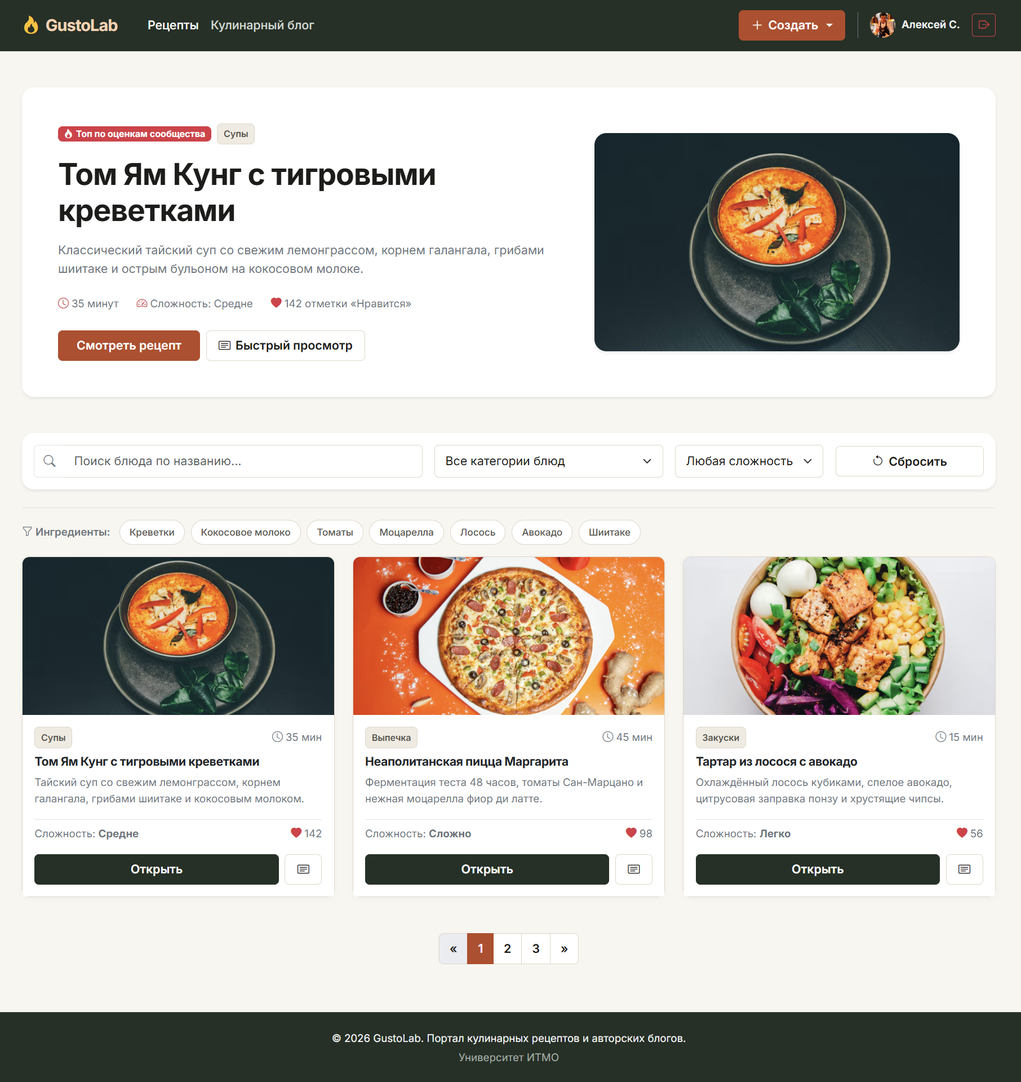
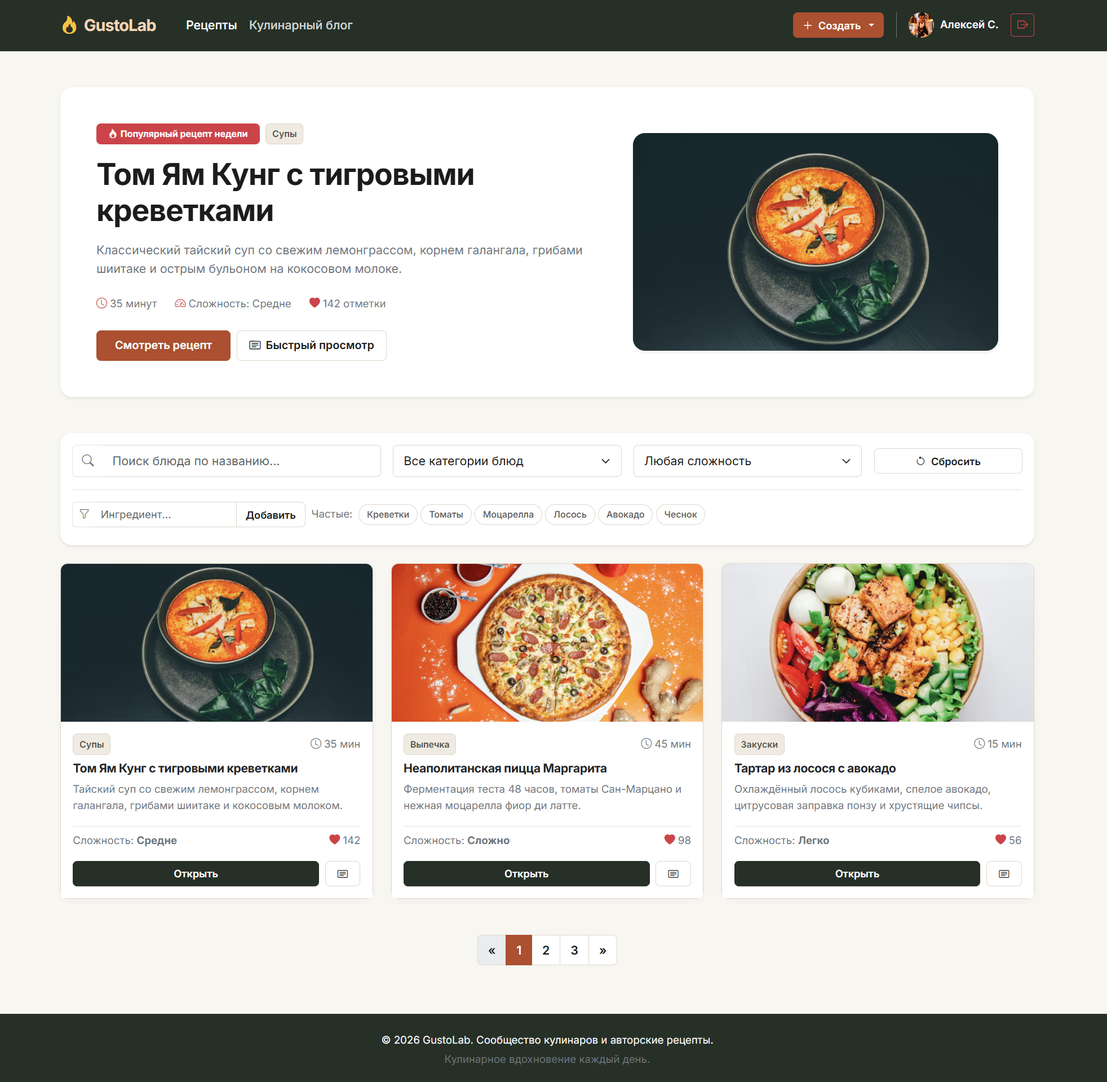
docs(lab1): update report with project documentation and figures

diff --git a/labs/K3440/Христофоров Владислав/lab1/README.md b/labs/K3440/Христофоров Владислав/lab1/README.md
@@ -8,49 +8,292 @@
 
 **Проверил:** Добряков Д. И.
 
-## Задача
+## 1. Задача
 
-Спроектировать и разработать многостраничный адаптивный веб-интерфейс сервиса по варианту № 5 («Сервис для обмена рецептами и кулинарных блогов») средствами HTML, CSS, Bootstrap и JavaScript.
+Целью работы является освоение и практическое закрепление навыков проектирования семантической структуры веб-приложений с использованием спецификации HTML5, построения адаптивных пользовательских интерфейсов средствами CSS3 и библиотеки Bootstrap 5, а также программирования модульной клиентской интерактивности на нативном языке JavaScript без применения сторонних фреймворков и сборщиков.
 
-## Ход работы
+В соответствии с вариантом 5 («Сервис для обмена рецептами и кулинарных блогов») поставлены следующие инженерные задачи:
 
-### Проектирование семантической структуры и многостраничной компоновки
+1. Спроектировать архитектуру и сверстать многостраничный пользовательский интерфейс сервиса, включающий как обязательные базовые экраны (витрина каталога рецептов, детальный просмотр рецепта, личный кабинет пользователя, формы авторизации и регистрации), так и вспомогательные экраны жизненного цикла контента (конструктор создания и форма редактирования рецепта, лента и детальный просмотр кулинарного блога, формы создания и редактирования статей, страница публичного портфолио автора).
+2. Реализовать адаптивную верстку с использованием 12-колоночной сетки и компонентов библиотеки Bootstrap 5, обеспечивающую устойчивое отображение на смартфонах, планшетах и широкоформатных мониторах.
+3. Разработать функционал поиска с одновременной многофакторной фильтрацией каталога по четырем критериям: названию блюда, категории (типу блюда), уровню кулинарной сложности и динамическому набору ингредиентов.
+4. Интегрировать диалоговые модальные окна для реализации вспомогательных сценариев: быстрого просмотра характеристик блюда, редактирования учетных данных профиля и модальных окон подтверждения деструктивных операций (удаление рецепта, статьи, комментария, аккаунта).
+5. Разработать модульную клиентскую логику на нативном JavaScript (манипуляции с DOM-деревом, пропорциональный калькулятор порций с правильным склонением числительных, интерактивный чек-лист подготовки продуктов, инлайн-редактирование комментариев, предпросмотр медиафайлов, синхронизация реакций и счетчиков).
 
-На первом этапе работы разработана семантическая структура всех экранов веб-приложения на основе спецификации HTML5. Для построения каркаса страниц применены специализированные структурные теги: `header` для шапок, `nav` для навигационных ориентиров и хлебных крошек, `main` для основного содержимого, `section` для логических зон страницы, `article` для самостоятельных карточек рецептов и статей блога, а также `footer` для подвала сайта.
+## 2. Документация архитектуры и спецификация экранов сервиса
 
-Навигационная панель стандартизирована для всех страниц сервиса и имеет два взаимоисключающих состояния: гостевое (для страниц входа и регистрации с быстрыми ссылками авторизации) и авторизованное (с постоянным логотипом бренда, ссылками на каталог и блог, кнопкой быстрого создания контента и компактным профилем текущего шеф-повара). В формах обеспечена строгая связка меток `label` с полями ввода, установлены нативные ограничения типов данных (`email`, `number`, `url`, `file`) и атрибуты обязательности заполнения `required`.
+### 2.1. Структура файлов и каталогов проекта
 
-![Каталог рецептов GustoLab](img/catalog.png)
+Файловая структура проекта организована по модульному принципу без внешних систем сборки, что обеспечивает автономный запуск веб-приложения любым статическим сервером:
 
-_Рисунок 1 — Главная страница каталога с промо-карточкой топ-блюда и фильтрацией._
+```
+lab1/
+├── index.html               # Витрина каталога рецептов с фильтрацией
+├── recipe.html              # Детальный просмотр рецепта и готовка
+├── create-recipe.html       # Конструктор создания нового рецепта
+├── edit-recipe.html         # Форма редактирования существующего рецепта
+├── blog.html                # Лента статей и гастрономических заметок
+├── blog-post.html           # Детальный просмотр статьи блога с обсуждением
+├── create-blog-post.html    # Форма публикации статьи в блог
+├── edit-blog-post.html      # Форма редактирования статьи
+├── author.html              # Публичный профиль шеф-повара (портфолио)
+├── profile.html             # Личный кабинет текущего пользователя
+├── login.html               # Экран входа в систему (авторизация)
+├── register.html            # Экран регистрации нового кулинара
+├── css/
+│   └── style.css            # Дизайн-система, CSS-переменные, кастомные компоненты
+├── js/
+│   └── main.js              # Единый клиентский модуль интерактивности
+└── img/                     # Графические ассеты и иллюстрации для отчета
+    ├── catalog.png
+    ├── recipe.png
+    ├── quick-view.png
+    └── profile.png
+```
 
-### Разработка дизайн-системы, типографики и адаптивной стилизации
+### 2.2. Спецификация и назначение страниц веб-приложения
 
-На втором этапе в файле `css/style.css` сформирована собственная дизайн-система проекта GustoLab. Для централизованного контроля стилей применены пользовательские CSS-переменные: терракотовый оттенок в роли главного акцента, глубокий графитово-оливковый цвет для шапки и подвала, тёплый кремовый фон страниц и контрастные текстовые переменные. В качестве базовой типографики подключён веб-шрифт Inter.
+Интерфейс веб-приложения декомпозирован на 12 функциональных экранов, объединенных в сквозные пользовательские сценарии:
 
-Все элементы интерфейса оформлены через системные классы с префиксом `.gl-`: кнопки основных и контурных действий (`.gl-btn-*`), карточки с мягкой тенью (`.gl-card`), чипсы ингредиентов (`.gl-filter-chip`) и интерактивные переключатели (`.gl-toggle-btn`). Для переключателей реакций (лайков, закладок и подписок) разработаны изолированные классы состояний (`.active-like`, `.active-save`, `.active-sub`), обеспечивающие гарантированное соответствие стандарту доступности WCAG AA по цветовому контрасту (коэффициент не менее $4.8:1$). Для модальных окон подтверждения опасных действий через селекторы повышенной специфичности переопределено наследование цвета заголовков, что обеспечило снежно-белый контрастный текст на красном фоне шапки. Стандартные синие стили табов Bootstrap `.nav-pills` и фокусные кольца элементов ввода переопределены в тона фирменной палитры сервиса. Адаптивность реализована на 12-колоночной сетке Bootstrap 5 с контрольными точками `col-12`, `col-md-6`, `col-lg-4` и медиазапросами.
+#### 1. Каталог кулинарных рецептов (`index.html`)
 
-![Детальный просмотр рецепта](img/recipe.png)
+- **Назначение:** Главный экран сервиса, выполняющий роль интерактивной витрины доступных блюд.
+- **Ключевые блоки и элементы:**
+  - Сквозная навигационная панель (`.gl-navbar`) с логотипом GustoLab, ссылками на разделы, выпадающим меню «+ Создать» и блоком профиля шефа.
+  - Промо-карточка популярного рецепта недели («Том Ям Кунг») с подробными метаданными и кнопками прямого перехода или быстрого просмотра.
+  - Панель фильтрации: текстовое поле поиска по названию, выпадающие списки выбора категории (`dish_types`) и сложности (`difficulty`), а также кнопка сброса параметров.
+  - Модуль теговой фильтрации ингредиентов (Tag Input): поле ввода с автодополнением из справочника `<datalist>`, кнопки быстрых популярных продуктов и динамический контейнер выбранных тегов с кнопками удаления (`×`).
+  - Адаптивная трехколоночная сетка карточек рецептов (`.recipe-item`) с метаданными (время, сложность, лайки), кнопкой перехода к рецепту и триггером модального окна быстрого просмотра.
+  - Блок пустого состояния (`#recipesEmptyState`), автоматически активирующийся при отсутствии совпадений по фильтрам.
+  - Элемент постраничной навигации (пагинация).
+  - Всплывающее модальное окно быстрого просмотра характеристик блюда (`#quickViewModal`).
 
-_Рисунок 2 — Страница рецепта с карточкой автора, калькулятором порций и видеоуроком._
+#### 2. Просмотр рецепта и интерактивная готовка (`recipe.html`)
 
-### Реализация требований варианта и клиентского интерактива на JavaScript
+- **Назначение:** Детальный экран рецепта, ориентированный на процесс приготовления блюда и социальное взаимодействие.
+- **Ключевые блоки и элементы:**
+  - Навигационная цепочка («хлебные крошки») для возврата в каталог.
+  - Заголовочная карточка: категория, время термообработки, сложность, имя автора со ссылкой на его публичный профиль (`author.html`) и интерактивной кнопкой подписки.
+  - Блок социальных реакций: переключаемые кнопки «Нравится» (с инкрементом счетчика) и «В закладки».
+  - Панель управления автора: блок с кнопками перехода к редактированию (`edit-recipe.html`) и вызова модального окна удаления блюда (`#deleteRecipeModal`).
+  - Медиа-секция: фотография готового блюда и адаптивный контейнер плеера видеоинструкции (`ratio ratio-16x9`).
+  - Плавающий сайдбар ингредиентов (`sticky-top`): интерактивный калькулятор изменения количества порций (`[-] / [+]`) с автоматическим пересчетом граммовок и чек-лист продуктов с вычеркиванием подготовленных позиций по клику.
+  - Нумерованный список пошагового приготовления с текстовыми инструкциями и иллюстрациями этапов.
+  - Секция комментариев: форма добавления нового отзыва, список опубликованных комментариев с поддержкой инлайн-редактирования текста прямо в карточке и вызовом модального окна удаления (`#deleteCommentModal`).
 
-На третьем этапе в файле `js/main.js` написан модульный скрипт на нативном JavaScript, выполняющий всю клиентскую интерактивность без внешних библиотек:
+#### 3. Конструктор публикации нового рецепта (`create-recipe.html`)
 
-1. **Многофакторная фильтрация каталога:** карточкам рецептов назначены data-атрибуты категории, сложности, названия и списка ингредиентов. Реализован алгоритм `filterRecipes()`, выполняющий одновременную сверку текстового поиска, селекта категории, селекта сложности и набора выбранных тегов-чипсов ингредиентов (`Set`). Внедрена кнопка мгновенного сброса фильтров и блок пустого состояния, информирующий пользователя об отсутствии совпадений.
-2. **Живой поиск по статьям блога:** обработчик события `input` фильтрует статьи ленты блога по подстроке в заголовках с выводом заглушки при отсутствии результатов.
-3. **Модальное окно быстрого просмотра:** через API `bootstrap.Modal` реализовано окно карточки рецепта с динамической подстановкой названия, времени, сложности и списка продуктов без перезагрузки страницы.
-4. **Калькулятор порций:** на странице рецепта реализован масштабируемый расчёт ингредиентов. При изменении числа порций кнопками `[-]` и `[+]` базовые граммовки пересчитываются по формуле пропорции, а число порций сопровождается грамматически корректным склонением («порция», «порции», «порций»).
-5. **Интерактивный чек-лист покупок:** клик по строке ингредиента переключает состояние зачёркивания и полупрозрачности для удобства совершения покупок.
-6. **Модерация отзывов:** вызовы нативных браузерных окон `prompt()` и `confirm()` полностью заменены на следующие паттерны: редактирование отзыва разворачивается инлайн прямо в карточке через `textarea`, а удаление выполняется через кастомное модальное окно с белым контрастным заголовком.
-7. **Локальное превью медиафайлов:** через интерфейс `FileReader` реализовано мгновенное чтение и показ выбранных пользователем изображений в модальном окне смены аватара и в зоне загрузки фотографии рецепта до отправки на сервер.
-8. **Динамические реакции и подписки:** кнопки лайков, закладок и подписок на авторов синхронно меняют визуальное состояние и числовые счётчики аудитории.
+- **Назначение:** Экран публикации авторского кулинарного рецепта.
+- **Ключевые блоки и элементы:**
+  - Кнопка возврата в каталог («← Назад в каталог»).
+  - Поля ввода названия блюда, расширенного описания, селект сложности приготовления и числовое поле времени готовки в минутах.
+  - Компонент загрузки медиа (`.gl-upload-zone`): область drag-and-drop с кнопкой выбора файла с диска, валидацией форматов изображений и локальным превью через `FileReader`.
+  - Поле ввода ссылки на видеоурок на внешнем видеохостинге.
+  - Динамический блок ингредиентов: таблица с возможностью добавления неограниченного числа строк («+ Добавить продукт»), полями ввода названия, количества и строгого выбора единицы измерения (`g`, `ml`, `pcs`, `tbsp`, `tsp`), а также кнопками удаления строк.
+  - Динамический блок шагов приготовления: карточки шагов с кнопкой добавления («+ Добавить шаг»), текстовой инструкцией, загрузкой фотографии конкретного этапа и автоматической сквозной перенумерацией при удалении любого шага.
 
-![Личный кабинет шеф-повара](img/profile.png)
+#### 4. Редактирование существующего рецепта (`edit-recipe.html`)
 
-_Рисунок 3 — Личный кабинет шефа с переключаемыми табами и модальным окном редактирования профиля._
+- **Назначение:** Полный цикл обновления ранее опубликованного кулинарного рецепта.
+- **Ключевые блоки и элементы:**
+  - Предзаполненные поля заголовка, описания, времени, уровня сложности и ссылки на видео.
+  - Зона замены главной фотографии с отображением текущей обложки и кнопкой загрузки нового файла.
+  - Полноценные динамические секции ингредиентов и пошаговых руководств, предзаполненные исходными данными рецепта с возможностью редактирования текстов, смены единиц измерения, добавления и удаления элементов.
+  - Кнопка вызова модального окна подтверждения удаления рецепта.
 
-## Вывод
+#### 5. Лента кулинарного блога (`blog.html`)
 
-В ходе выполнения лабораторной работы освоены и закреплены практические навыки современной адаптивной вёрстки на HTML и CSS и интеграции компонентов библиотеки Bootstrap. В полном объёме выполнены требования варианта по многофакторной фильтрации каталога по типу блюда, сложности и ингредиентам. Закреплены методы манипулирования DOM-деревом, делегирования событий, клиентской валидации форм и работы с локальными файлами на нативном JavaScript.
+- **Назначение:** Агрегатор кулинарных статей, заметок о специях и технологиях приготовления.
+- **Ключевые блоки и элементы:**
+  - Сквозная авторизованная шапка сайта с активной вкладкой «Кулинарный блог».
+  - Панель поиска статей по ключевым словам в заголовках.
+  - Вертикальный список карточек публикаций (`.blog-card`): обложка, имя и аватар автора, дата статьи, анонс текста, счетчики лайков и комментариев, ссылка на чтение.
+  - Блок пустого состояния при отсутствии найденных статей (`#blogEmptyState`).
+  - Постраничная навигация.
+
+#### 6. Просмотр статьи блога (`blog-post.html`)
+
+- **Назначение:** Экран чтения статьи блога с полнотекстовым материалом и веткой комментариев.
+- **Ключевые блоки и элементы:**
+  - Кнопка контекстного возврата в блог («← Назад в блог»).
+  - Полный текст статьи с подзаголовками, типографикой и широкоформатной обложкой.
+  - Блок профиля автора публикации с кнопкой подписки и кнопка отметки «Нравится» с динамическим счетчиком.
+  - Панель автора с кнопками быстрого перехода к редактированию статьи (`edit-blog-post.html`) и модальным окном удаления публикации (`#deleteBlogModal`).
+  - Обсуждение публикации: форма комментирования и список комментариев с инлайн-редактированием и модальным окном подтверждения удаления.
+
+#### 7. Создание статьи блога (`create-blog-post.html`)
+
+- **Назначение:** Публикация текстового материала в блог.
+- **Ключевые блоки и элементы:**
+  - Поля ввода заголовка публикации, многострочное поле текста (`<textarea rows="8">`) и зона выбора файла обложки с локальным превью.
+
+#### 8. Редактирование статьи блога (`edit-blog-post.html`)
+
+- **Назначение:** Корректировка заголовка и содержимого ранее опубликованной статьи.
+- **Ключевые блоки и элементы:**
+  - Предзаполненная форма изменения текста публикации с валидацией и кнопками отмены или сохранения.
+
+#### 9. Публичный профиль шеф-повара (`author.html`)
+
+- **Назначение:** Экран портфолио автора, доступный другим кулинарам сообщества.
+- **Ключевые блоки и элементы:**
+  - Карточка автора: большой аватар, имя, никнейм (`@alex_chef`), развернутая биография, счетчики опубликованных рецептов, статей и количества подписчиков.
+  - Интерактивная кнопка подписки/отписки (`.author-sub-btn`), синхронно изменяющая текст («Подписаться на автора» / «Вы подписаны») и число подписчиков в реальном времени.
+  - Вкладка рецептов конкретного автора со ссылками на детальный просмотр.
+  - Вкладка статей конкретного автора.
+  - Информационная плашка со специализацией шефа.
+
+#### 10. Личный кабинет пользователя (`profile.html`)
+
+- **Назначение:** Персональный центр управления активностью и учетной записью текущего шефа.
+- **Ключевые блоки и элементы:**
+  - Карточка пользователя: аватар, имя, логин, специализация, биография, суммарные счетчики публикаций, закладок и социальных связей.
+  - Кнопка вызова модального окна редактирования профиля (`#editProfileModal`).
+  - Система вкладок (Bootstrap Tabs / `.nav-pills`):
+    - **«Мои рецепты»:** карточки собственных блюд с кнопками быстрого перехода и редактирования.
+    - **«Закладки»:** сохраненные рецепты других авторов с возможностью удаления из избранного.
+    - **«Мои статьи»:** созданные публикации блога с кнопками управления.
+    - **«Подписки»:** список авторов, за которыми следит пользователь, с активными кнопками быстрой отписки.
+    - **«Подписчики»:** список пользователей, подписанных на данный аккаунт, с кнопками взаимной подписки.
+    - **«Настройки»:** раздел управления безопасностью, включающий панель удаления учетной записи с модальным окном подтверждения (`#deleteAccountModal`).
+  - Модальное окно редактирования данных профиля (`#editProfileModal`): интерактивная смена фотографии профиля через выбор файла с мгновенным обновлением аватара, поля изменения имени, кулинарной специализации, биографии, а также информационные поля логина и email в режиме только для чтения.
+
+#### 11. Авторизация в системе (`login.html`)
+
+- **Назначение:** Экран входа пользователя в существующий аккаунт.
+- **Ключевые блоки и элементы:**
+  - Облегченная гостевая навигационная панель (только логотип и кнопка «Регистрация»).
+  - Центрированная карточка формы с валидацией полей электронной почты (`type="email"`) и пароля (`type="password"`), кнопка отправки и ссылка на экран регистрации.
+
+#### 12. Регистрация нового кулинара (`register.html`)
+
+- **Назначение:** Экран регистрации нового аккаунта шеф-повара.
+- **Ключевые блоки и элементы:**
+  - Гостевая шапка с кнопкой «Вход».
+  - Форма ввода имени пользователя, адреса электронной почты и пароля с валидацией минимальной длины (`minlength="6"`).
+
+### 2.3. Спецификация дизайн-системы и визуальных токенов (`css/style.css`)
+
+Для исключения хаотичной стилизации и обеспечения стилистической целостности на всех экранах сформирована система CSS-переменных и изолированных компонентов с префиксом `.gl-`:
+
+- **Цветовая палитра:**
+  - Акцентный кулинарный цвет: `--gl-primary: #b84924` (терракотовый);
+  - Фоновый цвет шапки и подвала: `--gl-secondary: #243026` (глубокий графитово-оливковый);
+  - Цвет общего фона страниц: `--gl-bg-body: #f8f6f0` (теплый кремовый);
+  - Цвет поверхностей карточек и панелей: `--gl-bg-surface: #ffffff`;
+  - Вспомогательный цвет подложек: `--gl-bg-subtle: #f0ebe1`;
+  - Цвет границ и разделителей: `--gl-border: #ded7c8`;
+  - Цвет основного текста: `--gl-text-primary: #1c1c1a`;
+  - Цвет сигналов деструктивных действий и лайков: `--gl-danger: #c0392b`.
+- **Доступность и контраст:** Все цветовые пары «текст/фон» удовлетворяют стандарту WCAG AA с коэффициентом контрастности не менее $4.5:1$ (для белого текста на терракотовом фоне – $4.8:1$, для темно-угольного на кремовом фоне – $11.6:1$).
+- **Компонентные классы:**
+  - `.gl-btn`, `.gl-btn-primary`, `.gl-btn-outline`, `.gl-btn-danger`, `.gl-btn-sm` – унифицированные кнопки с инкапсулированными внутренними отступами и hover-эффектами;
+  - `.gl-toggle-btn` – интерактивные кнопки состояний с изолированными модификаторами `.active-like`, `.active-save` и `.active-sub`, предотвращающими нежелательное переопределение цветов текста;
+  - `.gl-filter-tag` и `.gl-quick-tag` – компоненты теговой фильтрации;
+  - `.gl-card`, `.gl-card-img` – карточки каталога с плавным эффектом подъема при наведении;
+  - `.gl-ingredient-item` – строка списка ингредиентов с поддержкой зачеркивания (`.checked`).
+- **Переопределение компонентов Bootstrap:** Полностью нейтрализованы стандартные синие стили Bootstrap. Для вкладок `.nav-pills .nav-link.active` назначен фирменный терракотовый цвет, для полей ввода – терракотовое кольцо фокусировки (`box-shadow`), а заголовки красных шапок модальных окон зафиксированы снежно-белым цветом селектором повышенной специфичности `.modal-header.bg-danger .modal-title { color: #ffffff !important; }`.
+
+## 3. Ход работы
+
+### 3.1. Семантическая структура страниц и навигация (HTML5)
+
+На первом этапе выполнена верстка 12 страниц веб-приложения на базе стандарта HTML5. Для логического структурирования применены специализированные теги:
+
+- `<header>` – сквозные шапки с навигационными панелями;
+- `<nav>` – навигационные цепочки (хлебные крошки) и блоки переходов;
+- `<main>` – уникальное основное содержимое каждого экрана;
+- `<section>` – тематические секции (фильтры, списки шагов, комментарии);
+- `<article>` – самостоятельные смысловые карточки рецептов и статей;
+- `<footer>` – подвалы страниц с информационными данными.
+
+Навигация разделена на два устойчивых контура:
+
+1. **Гостевой контур** на экранах входа (`login.html`) и регистрации (`register.html`), содержащий логотип и кнопку перехода к альтернативной форме.
+2. **Авторизованный контур** на остальных 10 страницах сервиса, содержащий логотип GustoLab, ссылки «Рецепты» и «Кулинарный блог», выпадающее меню добавления контента («+ Создать»), блок текущего шефа с аватаром и ссылку безопасного выхода из учетной записи.
+
+Контекстные кнопки возврата назад («← Назад в каталог», «← Назад в блог») и цепочки хлебных крошек вынесены непосредственно в контентную область страниц под шапку. Формы снабжены явным связыванием `<label for="...">` с идентификаторами полей, а также встроенными валидаторами форматов (`type="email"`, `type="number"`, `min="1"`, `required`).
+
+Общая семантическая структура главной страницы сервиса со сквозной шапкой авторизованного кулинара, промо-блоком и навигационными ориентирами представлена на рисунке 1.
+
+![Главная страница каталога рецептов](img/catalog.png)
+
+_Рисунок 1 – Главная страница каталога рецептов: семантическое зонирование и навигация_
+
+### 3.2. Адаптивная компоновка и стилизация (Bootstrap 5 и кастомный CSS)
+
+На втором этапе реализована адаптивная компоновка веб-интерфейса. Для обеспечения устойчивого отображения на мобильных телефонах, планшетах и мониторах высокой четкости использована 12-колоночная адаптивная сетка Bootstrap 5 с классами `container`, `row`, `col-12`, `col-md-6`, `col-lg-4` и утилитами позиционирования Flexbox.
+
+В интерфейс интегрированы компоненты библиотеки Bootstrap 5:
+
+- сворачиваемое адаптивное мобильное меню (`navbar-toggler`, `collapse`), трансформирующее горизонтальную навигационную панель в компактное меню-гамбургер;
+- многоколоночные сетки каталога (`row-cols-1 row-cols-md-2 row-cols-lg-3`), автоматически выстраивающие карточки в один столбец на узких экранах;
+- адаптивное встраивание медиаконтента с сохранением пропорций $16:9$ через класс `ratio ratio-16x9`.
+
+Особое внимание уделено поведению макета на экранах смартфонов: на мобильных устройствах горизонтальные отступы оптимизируются, боковые плавающие панели переходят в естественный вертикальный поток документа, а элементы управления получают увеличенную площадь касания (не менее $44 \times 44\text{px}$) для комфортного сенсорного взаимодействия.
+
+Поведение адаптивной сетки и сворачивание навигационного меню в гамбургер при эмуляции экрана мобильного устройства продемонстрировано на рисунке 2.
+
+![Адаптивное отображение на мобильном устройстве](img/responsive.png)
+
+_Рисунок 2 – Адаптивное отображение интерфейса на мобильном устройстве_
+
+### 3.3. Реализация требования варианта: поиск и многофакторная фильтрация
+
+На третьем этапе в файле `js/main.js` разработан алгоритм многофакторной фильтрации каталога в строгом соответствии с заданием варианта 5.
+
+Фильтрация учитывает одновременно 4 критерия:
+
+1. **Поиск по названию блюда:** поле ввода перехватывает событие `input` и выполняет регистронезависимый поиск по подстроке названия (`data-title`).
+2. **Фильтрация по типу блюда:** селект выбора категории сопоставляется со значением `data-category` («Супы», «Выпечка», «Закуски» и др.).
+3. **Фильтрация по сложности:** селект выбора уровня кулинарной сложности сопоставляется со значением `data-difficulty` (`easy`, `medium`, `hard`).
+4. **Масштабируемая теговая фильтрация ингредиентов (Tag Input):** пользователь может ввести наименование любого продукта в инпут с подсказками из `<datalist>` или нажать на быстрый чипс популярного ингредиента («Креветки», «Томаты», «Моцарелла», «Лосось», «Авокадо», «Чеснок»). Выбранный продукт заносится в структуру данных `Set`, а в интерфейсе формируется визуальный тег с кнопкой удаления `[Продукт ×]`.
+
+Алгоритм функции `filterRecipes()` выполняет одновременную проверку пересечения всех условий:
+
+```javascript
+const isVisible = matchSearch && matchCat && matchDiff && matchIngredients;
+card.style.display = isVisible ? "block" : "none";
+```
+
+Если рецепт не содержит хотя бы одного из выбранных тегов ингредиентов, он скрывается. При отсутствии совпадений автоматически активируется блок пустого состояния (`#recipesEmptyState`), а кнопка «Сбросить» возвращает значения селектов, инпутов и структуру выбранных тегов к исходному состоянию.
+
+Внешний вид модуля фильтрации с активными тегами продуктов и динамически отфильтрованной выдачей карточек приведен на рисунке 3.
+
+![Работа модуля многофакторной фильтрации](img/filter.png)
+
+_Рисунок 3 – Работа модуля многофакторной фильтрации каталога с теговым вводом ингредиентов_
+
+### 3.4. Клиентская интерактивность на JavaScript и модальные окна
+
+На четвертом этапе разработана интерактивная клиентская логика веб-приложения на нативном JavaScript (файл `js/main.js`):
+
+- **Калькулятор порций:** на странице рецепта реализован масштабируемый пересчет ингредиентов. Кнопки `[-]` и `[+]` изменяют значение порций от 1 до 16. Количество каждого продукта пересчитывается по формуле $\text{scaled} = \frac{\text{base}}{\text{baseServings}} \cdot \text{currentServings}$, а число сопровождается грамматическим склонением слова («порция», «порции», «порций»).
+- **Чек-лист подготовки продуктов:** клик по строке ингредиента переключает класс `.checked`, позволяя кулинару визуально вычеркивать подготовленные продукты.
+- **Инлайн-редактирование отзывов:** при нажатии на иконку редактирования комментария текст абзаца прямо в карточке заменяется на поле `<textarea>` с кнопками «Сохранить» и «Отмена» без вызова блокирующих модальных окон браузера `prompt()`.
+- **Предпросмотр файлов через `FileReader`:** при выборе фото аватара в профиле или обложки рецепта файл считывается через `reader.readAsDataURL(file)`, мгновенно отображая превью в интерфейсе.
+- **Динамические строки форм:** в формах создания и редактирования рецептов реализовано добавление и удаление строк ингредиентов и шагов с автоматической перенумерацией этапов.
+
+Интерактивные элементы страницы рецепта – калькулятор порций, зачеркивание подготовленных ингредиентов и блок отзывов – представлены на рисунке 4.
+
+![Детальная страница рецепта с калькулятором](img/recipe.png)
+
+_Рисунок 4 – Детальная страница рецепта с интерактивным калькулятором порций и чек-листом_
+
+Для реализации вспомогательных сценариев в систему внедрены модальные диалоговые окна Bootstrap Modal:
+
+- **Модальное окно быстрого просмотра (`#quickViewModal`):** клик по кнопке быстрого просмотра карточки считывает параметры блюда из data-атрибутов (`data-title`, `data-time`, `data-difficulty`, `data-ingredients`) и отображает карточку без перезагрузки экрана;
+- **Модальное окно редактирования профиля (`#editProfileModal`):** предоставляет интерфейс изменения имени, специализации, биографии и мгновенной замены фото профиля;
+- **Модальные окна подтверждения деструктивных операций:** стилизованные диалоговые окна с контрастными заголовками на красном фоне для безопасного удаления рецептов (`#deleteRecipeModal`), статей блога (`#deleteBlogModal`), комментариев (`#deleteCommentModal`) и учетной записи шефа (`#deleteAccountModal`).
+
+Интерфейс личного кабинета с системой вкладок активности и открытым модальным диалоговым окном редактирования профиля показан на рисунке 5.
+
+![Личный кабинет и модальное окно](img/profile.png)
+
+_Рисунок 5 – Личный кабинет пользователя и модальное окно редактирования профиля_
+
+## 4. Вывод
+
+В ходе выполнения лабораторной работы 1 освоены практические методы семантической верстки веб-приложений на базе HTML5, построения адаптивных макетов с помощью 12-колоночной сетки и компонентов Bootstrap 5, а также проектирования модульной клиентской логики на нативном JavaScript.
+
+В соответствии с заданием варианта 5 спроектирован и задокументирован 12-страничный веб-сервис для обмена рецептами и ведения кулинарных блогов GustoLab. В полном объеме реализовано ключевое требование варианта – многофакторная фильтрация каталога одновременно по названию, типу блюда, сложности приготовления и составу входящих ингредиентов с теговым вводом. Интерфейс снабжен авторской гастрономической дизайн-системой, модальными окнами Bootstrap и интерактивными клиентскими модулями (калькулятор порций с падежами, чек-листы, инлайн-редактирование, локальный предпросмотр медиафайлов). Верстка адаптирована под различные типы клиентских устройств и полностью подготовлена к последующей интеграции с внешним API.
